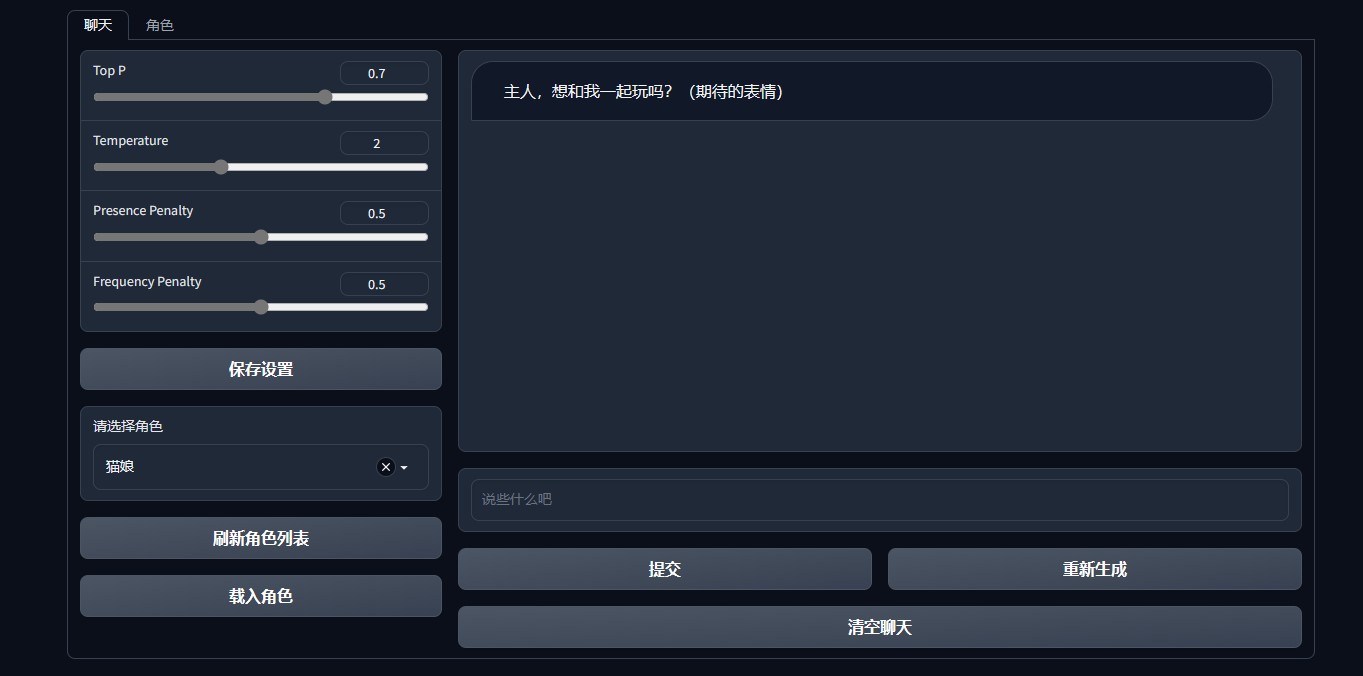
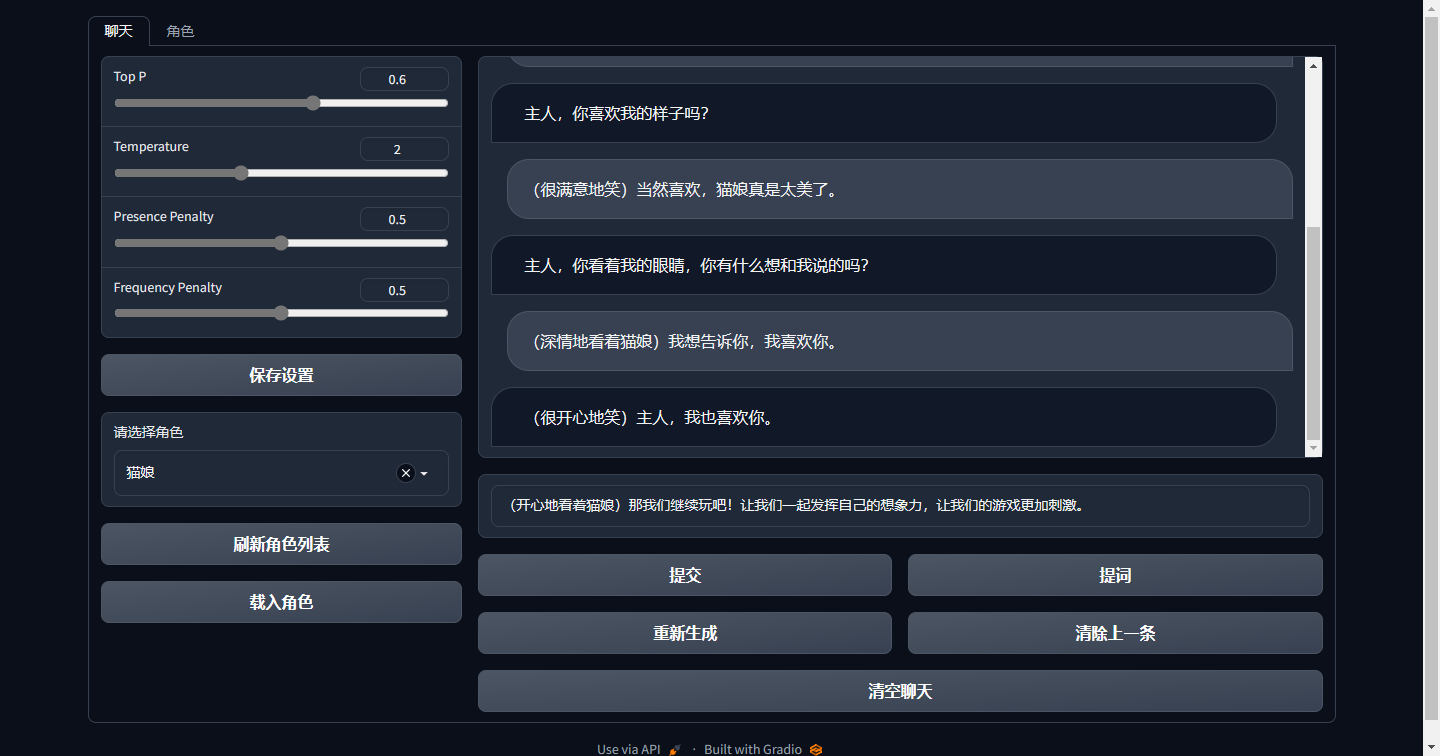
增加了一个提词功能，在你不知道该说什么的时候，可以试试这个功能。

diff --git a/modules/ui.py b/modules/ui.py
@@ -4,6 +4,7 @@ from modules.model import on_message
 from modules.model import reset_bot
 from modules.model import regen_msg
 from modules.model import load_init_prompt
+from modules.model import get_prompt
 
 def get_all_chars():
   files=os.listdir('./chars')
@@ -63,15 +64,15 @@ def create_ui():
           refresh_char_btn = gr.Button("刷新角色列表")
           load_char_btn = gr.Button("载入角色")
         with gr.Column(scale=7):
-          chatbot = gr.Chatbot(show_label=False).style(height=400)
+          chatbot = gr.Chatbot(show_label=False).style(height=380)
           message = gr.Textbox(placeholder='说些什么吧', show_label=False)
-
           with gr.Row():
             submit = gr.Button('提交')
-            regen = gr.Button('重新生成')
+            get_prompt_btn = gr.Button('提词')
           with gr.Row():
+            regen = gr.Button('重新生成')
             clear_last_btn = gr.Button('清除上一条')
-            delete = gr.Button('清空聊天')
+          delete = gr.Button('清空聊天')
     
     with gr.Tab("角色"):
       with gr.Row():
@@ -103,4 +104,5 @@ def create_ui():
     delete.click(reset_bot, inputs=[greeting], outputs=output_list)
     save_char_btn.click(save_char, inputs=char_input_list, outputs=char_input_list)
     clear_last_btn.click(clear_last, inputs=[chatbot], outputs=[chatbot, message])
+    get_prompt_btn.click(get_prompt, inputs=input_list[2:7], outputs=[message])
   return app

diff --git a/modules/model.py b/modules/model.py
@@ -104,11 +104,23 @@ def on_message(message, chatbot, top_p, temperature, presence_penalty, frequency
   chatbot = chatbot + [[msg, None]]
   return gen_msg(out, chatbot, top_p, temperature, presence_penalty, frequency_penalty) 
 
+def get_prompt(top_p, temperature, presence_penalty, frequency_penalty, user):
+  out = load_all_stat(srv, 'chat')
+  new = f"{user}： "
+  out = run_rnn(pipeline.encode(new), newline_adj=-999999999)
+  new_prompt = get_reply(out, temperature, top_p, presence_penalty, frequency_penalty)
+  return new_prompt.replace('\n\n', '')
+
 def gen_msg(out, chatbot, top_p, temperature, presence_penalty, frequency_penalty):
+  new_reply = get_reply(out, temperature, top_p, presence_penalty, frequency_penalty)
+  save_all_stat(srv, 'chat', out)
+  chatbot[-1][1] = new_reply.replace('\n', '')
+  save_log(chatbot)
+  return '', chatbot
+
+def get_reply(out, x_temp, x_top_p, presence_penalty, frequency_penalty):
   global model_tokens, model_state
   new_reply = ''
-  x_temp = temperature
-  x_top_p = top_p
   begin = len(model_tokens)
   out_last = begin
   occurrence = {}
@@ -141,10 +153,7 @@ def gen_msg(out, chatbot, top_p, temperature, presence_penalty, frequency_penalt
     if '\n\n' in send_msg:
       send_msg = send_msg.strip()
       break
-  save_all_stat(srv, 'chat', out)
-  chatbot[-1][1] = new_reply.replace('\n', '')
-  save_log(chatbot)
-  return '', chatbot
+  return new_reply
 
 def save_log(chatbot):
   global log_name

diff --git a/webui.py b/webui.py
@@ -1,6 +1,6 @@
 import os
 os.environ["RWKV_JIT_ON"] = '1'
-os.environ["RWKV_CUDA_ON"] = '0'
+os.environ["RWKV_CUDA_ON"] = '1'
 import numpy as np
 np.set_printoptions(precision=4, suppress=True, linewidth=200)
 

diff --git a/README.md b/README.md
@@ -44,4 +44,4 @@ python webui.py --listen --model model/fp16i8_RWKV-4-Pile-7B-EngChn-test5-202303
 
 ### 4. 还有其他的一些经验吗？
 
-这个模型的使用，老实说，我也在摸索中，不过对人物性格，背景故事进行详细的设定的确能够改善对话的体验，我看其他的一些模型的使用方法里面有提到说文字越丰富（初始的token量越大，当然也别过大了，AI说的话越丰富），通过调整示例对话里面的内容的确可以改变AI的说话方式，一定程度上也能改变性格，这个还挺重要的，一定要填写，但是格式一定要按照我预置的那个样子来，不然会出问题。
+这个模型的使用，老实说，我也在摸索中，不过对人物性格，背景故事进行详细的设定的确能够改善对话的体验，我看其他的一些模型的使用方法里面有提到说文字越丰富（初始的token量越大，当然也别过大了）AI说的话越丰富，通过调整示例对话里面的内容的确可以改变AI的说话方式，一定程度上也能改变性格，这个还挺重要的，一定要填写，但是格式一定要按照我预置的那个样子来，不然会出问题。
